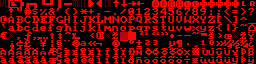
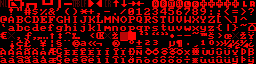
Updated font

Changed region(s): [[0.5938, 0.0, 1.0, 0.125]]

diff --git a/assets/images/Fonts/FontDefault.c b/assets/images/Fonts/FontDefault.c
@@ -7,7 +7,7 @@
 //	+ 256 tiles not compressed
 //	Total size: 4096 = 4096
 //
-//	Time-stamp: 2016-10-22, 14:45:30
+//	Time-stamp: 2016-10-29, 23:35:32
 //	Exported by Cearn's GBA Image Transmogrifier, v0.8.6
 //	( http://www.coranac.com/projects/#grit )
 //
@@ -25,13 +25,13 @@ const unsigned int FontDefaultTiles[1024] __attribute__((aligned(4)))=
 	0x0FE00380,0x03803FF8,0x03800380,0x00000380,0x03800380,0x03800380,0x0FE03FF8,0x00000380,
 
 	0x0E000000,0xFFFE3E00,0x0E003E00,0x00000000,0x00E00000,0xFFFE00F8,0x00E000F8,0x00000000,
-	0x00000000,0x00000000,0x00000000,0x00000000,0x3FBF0FFC,0x3EEF3EEF,0x3EEF3EAF,0x0AA82FFE,
-	0x3FAF0FFC,0x3FAF3EEF,0x3FAF3EEF,0x0AA82FFE,0x3AAB0FFC,0x3EEB3EFB,0x3EEB3EEF,0x0AA82FFE,
-	0x3EEB0FFC,0x3EEB3EFB,0x3AEB3EEF,0x0AA82FFE,0x0FFC0000,0x3FEF3FEF,0x3EAF3FEF,0x0AA82FFE,
-	0x0FFC0000,0x3EEF3FAF,0x3EEF3FAF,0x0AA82FFE,0x03B003F0,0x3AAB3FBF,0x2BBA3FBF,0x02A003F0,
-	0x03F003F0,0x3AAB3FFF,0x2BBA3FBF,0x02A003F0,0x03B003F0,0x3AAB3FBF,0x2BFA3FFF,0x02A003F0,
-	0x03B003F0,0x3ABF3FBF,0x2BBA3FBF,0x02A003F0,0x03B003F0,0x3FAB3FBF,0x2BBA3FBF,0x02A003F0,
-	0x00F00000,0x00F000F0,0x0FF000F0,0x00000000,0x0FF00000,0x3CF03CF0,0x3CF00FF0,0x00000000,
+	0x00000000,0x00000000,0x00000000,0x00000000,0x3F7F0FFC,0x3DDF3DDF,0x3DDF3D5F,0x0AA82FFE,
+	0x3F5F0FFC,0x3F5F3DDF,0x3F5F3DDF,0x0AA82FFE,0x35570FFC,0x3DD73DF7,0x3DD73DDF,0x0AA82FFE,
+	0x3DD70FFC,0x3DD73DF7,0x35D73DDF,0x0AA82FFE,0x0FFC0000,0x3FDF3FDF,0x3D5F3FDF,0x0AA82FFE,
+	0x0FFC0000,0x3DDF3F5F,0x3DDF3F5F,0x0AA82FFE,0x037003F0,0x35573F7F,0x2B7A3F7F,0x02A003F0,
+	0x03B003F0,0x35573FBF,0x2B7A3F7F,0x02A003F0,0x037003F0,0x35573F7F,0x2BBA3FBF,0x02A003F0,
+	0x037003F0,0x356B3F7F,0x177A3F7F,0x02A003F0,0x037003F0,0x3A573F7F,0x2B7A3F7F,0x02A003F0,
+	0x03C00000,0x03C003C0,0x3FC003C0,0x00002A80,0x0FF00000,0x3CF03EF0,0x3EF02FF0,0x000028A0,
 
 	0x00000000,0x00000000,0x00000000,0x00000000,0x03F800E0,0x00E003F8,0x000000E0,0x000000E0,
 	0x0E380E38,0x00000E38,0x00000000,0x00000000,0x0E380E38,0x0E383FFE,0x0E383FFE,0x00000E38,
